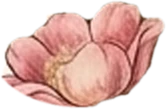
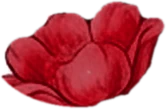
Versi 1: palet putih, hitam, emas dengan bunga merah
Claude-Session: https://claude.ai/code/session_01MxgjQbkmSSvvZDtBi8Ronz

diff --git a/index.html b/index.html
@@ -3,7 +3,7 @@
 <head>
 <meta charset="utf-8">
 <meta name="viewport" content="width=device-width, initial-scale=1, viewport-fit=cover">
-<meta name="theme-color" content="#FBF6EE">
+<meta name="theme-color" content="#ffffff">
 <title>The Wedding of Rian &amp; Syherli</title>
 <meta name="description" content="Undangan pernikahan Rian &amp; Syherli — Sabtu, 12 Desember 2026">
 <meta property="og:title" content="The Wedding of Rian &amp; Syherli">
@@ -18,9 +18,9 @@
    Ilustrasi: assets/base.webp (WebGL: pohon & bunga tertiup angin lewat wind.png + flowermap.png).
    Data undangan: objek WEDDING di <script> paling bawah. */
 :root{
-  --crimson:#8B1E1E; --crimson-dark:#6E1414; --crimson-light:#A62E2E;
-  --parchment:#FBF6EE; --card:#FFFBF5; --gold:#C59B27; --gold-dark:#9E7815; --gold-soft:rgba(197,155,39,.38);
-  --ink:#2c1f1a; --ink-2:#4a3d36; --ink-3:#7a6c62;
+  --crimson:#141414; --crimson-dark:#000; --crimson-light:#2e2e2e; --red:#b3151f;
+  --parchment:#ffffff; --card:#ffffff; --gold:#C59B27; --gold-dark:#9E7815; --gold-soft:rgba(197,155,39,.42);
+  --ink:#141414; --ink-2:#3a3a3a; --ink-3:#7c7c7c;
   --script:'Pinyon Script',cursive; --cinzel:'Cinzel',serif; --serif:'Cormorant Garamond',Georgia,serif;
   --col:414px; --ps:.74; --gap:74px;
 }
@@ -32,7 +32,7 @@ button,a,label{-webkit-tap-highlight-color:transparent;touch-action:manipulation
 img,svg{display:block}
 ::selection{background:var(--crimson);color:#fff}
 main{width:100%;max-width:var(--col);background:var(--parchment);min-height:100vh;position:relative;box-shadow:0 25px 50px -12px rgba(0,0,0,.5);overflow-x:hidden;padding-bottom:calc(64px + env(safe-area-inset-bottom))}
-.halo{text-shadow:0 0 14px #fbf6ee,0 0 6px #fbf6ee,0 1px 2px rgba(255,255,255,.9)}
+.halo{text-shadow:0 0 14px #fff,0 0 6px #fff,0 1px 2px rgba(255,255,255,.9)}
 
 /* ============ PEMUAT ============ */
 #loader{position:fixed;inset:0;z-index:100;background:var(--parchment);display:grid;place-items:center;transition:opacity .9s ease,visibility .9s}
@@ -63,33 +63,33 @@ main{width:100%;max-width:var(--col);background:var(--parchment);min-height:100v
 @keyframes swayL{from{transform:rotate(-.9deg)}to{transform:rotate(1.5deg)}}
 @keyframes swayR{from{transform:rotate(.9deg)}to{transform:rotate(-1.5deg)}}
 @keyframes swayF{from{transform:rotate(-.8deg) translateX(-.6%)}to{transform:rotate(.8deg) translateX(.6%)}}
-.sheen{position:absolute;inset:0;z-index:1;pointer-events:none;background:linear-gradient(180deg,rgba(251,246,238,.5),rgba(251,246,238,.08) 42%,rgba(251,246,238,0) 70%,rgba(251,246,238,.35))}
-.bloom{position:absolute;inset:0;z-index:1;pointer-events:none;opacity:0;background:radial-gradient(60% 34% at 50% 60%,rgba(255,244,214,.95),rgba(255,240,205,.5) 55%,rgba(255,240,205,0));transition:opacity 2.4s ease}
+.sheen{position:absolute;inset:0;z-index:1;pointer-events:none;background:linear-gradient(180deg,rgba(255,255,255,.5),rgba(255,255,255,.08) 42%,rgba(255,255,255,0) 70%,rgba(255,255,255,.35))}
+.bloom{position:absolute;inset:0;z-index:1;pointer-events:none;opacity:0;background:radial-gradient(60% 34% at 50% 60%,rgba(255,255,255,.96),rgba(255,250,235,.55) 55%,rgba(255,250,235,0));transition:opacity 2.4s ease}
 .life{position:absolute;inset:0;pointer-events:none;overflow:hidden;z-index:2}
 .life .bird,.life .bfy{position:absolute;left:0;top:0;will-change:transform}
 .life .bird svg{width:100%;height:auto;overflow:visible}
 .life .bfy img{width:100%;animation:flapS var(--flap,.75s) ease-in-out infinite alternate;filter:drop-shadow(0 2px 2px rgba(60,40,20,.15))}
 @keyframes flapS{0%,15%{transform:scaleX(1)}100%{transform:scaleX(.28)}}
 .hero-top{position:relative;z-index:10;padding:calc(clamp(22px,5vh,58px) + env(safe-area-inset-top)) 24px 0;text-align:center;display:flex;flex-direction:column;align-items:center;transition:opacity 1.6s ease,transform 2.2s cubic-bezier(.4,0,.2,1)}
-.hero-top::before{content:"";position:absolute;inset:-10px -10px -30px;z-index:-1;background:radial-gradient(closest-side,rgba(252,247,236,.9),rgba(252,247,236,.55) 62%,rgba(252,247,236,0))}
+.hero-top::before{content:"";position:absolute;inset:-10px -10px -30px;z-index:-1;background:radial-gradient(closest-side,rgba(255,255,255,.9),rgba(255,255,255,.55) 62%,rgba(255,255,255,0))}
 .badge{display:inline-flex;align-items:center;gap:8px;padding:4px 14px;border-radius:999px;background:rgba(255,255,255,.72);border:1px solid var(--gold-soft);margin-bottom:12px}
-.badge i{width:5px;height:5px;transform:rotate(45deg);background:var(--crimson)}
+.badge i{width:5px;height:5px;transform:rotate(45deg);background:var(--red)}
 .badge span{font-family:var(--cinzel);font-size:9.5px;letter-spacing:.26em;text-transform:uppercase;color:var(--ink-2);font-weight:600}
 .wed-of{font-family:var(--cinzel);font-size:12px;letter-spacing:.34em;text-transform:uppercase;color:var(--crimson);font-weight:500}
 .names{margin:6px 0 2px}
-.names h1{font-family:var(--script);font-weight:400;font-size:clamp(46px,7.6vh,64px);line-height:1.04;color:var(--crimson);text-shadow:0 2px 12px rgba(139,30,30,.14)}
+.names h1{font-family:var(--script);font-weight:400;font-size:clamp(46px,7.6vh,64px);line-height:1.04;color:var(--crimson);text-shadow:0 2px 12px rgba(0,0,0,.14)}
 .amp-row{display:flex;align-items:center;justify-content:center;gap:12px;margin:0}
 .amp-row b{height:1px;width:38px;background:linear-gradient(90deg,transparent,var(--gold))}.amp-row b:last-child{transform:scaleX(-1)}
 .amp-row span{font-family:var(--script);font-size:26px;color:var(--gold-dark)}
 .fullnames{font-style:italic;color:var(--ink-2);font-size:15px;margin-top:4px}
-.date-pill{margin-top:10px;padding:5px 18px;border-radius:999px;background:rgba(255,251,240,.82);border:1px solid rgba(197,155,39,.5);font-family:var(--cinzel);font-size:11px;letter-spacing:.14em;text-transform:uppercase;font-weight:600;color:var(--ink)}
+.date-pill{margin-top:10px;padding:5px 18px;border-radius:999px;background:rgba(255,255,255,.86);border:1px solid rgba(197,155,39,.5);font-family:var(--cinzel);font-size:11px;letter-spacing:.14em;text-transform:uppercase;font-weight:600;color:var(--ink)}
 .spacer{flex-grow:1;min-height:20px}
 .hero-bottom{position:relative;z-index:10;padding:0 24px calc(clamp(18px,3.4vh,34px) + env(safe-area-inset-bottom));display:flex;flex-direction:column;align-items:center;gap:12px;transition:opacity 1s ease,transform 1s ease}
 .guest{text-align:center;font-size:14px;font-style:italic;color:var(--ink-2);line-height:1.3;margin-top:12px}
 .guest[hidden]{display:none}
 .guest b{display:block;font-style:normal;font-size:21px;font-weight:700;color:var(--crimson);letter-spacing:.01em}
-.btn-open{width:100%;max-width:300px;background:linear-gradient(100deg,var(--crimson-dark),var(--crimson-light) 50%,var(--crimson-dark));background-size:200% 100%;color:#fef3c7;font-family:var(--cinzel);font-size:12px;font-weight:600;text-transform:uppercase;letter-spacing:.24em;
-  padding:13px 22px;border-radius:999px;box-shadow:0 16px 28px -12px rgba(110,20,20,.7),inset 0 1px 0 rgba(255,255,255,.18);display:flex;align-items:center;justify-content:center;gap:12px;border:1px solid rgba(240,215,140,.5);cursor:pointer;animation:sheenBtn 5s ease-in-out infinite}
+.btn-open{width:100%;max-width:300px;background:linear-gradient(100deg,var(--crimson-dark),var(--crimson-light) 50%,var(--crimson-dark));background-size:200% 100%;color:#f3e2b0;font-family:var(--cinzel);font-size:12px;font-weight:600;text-transform:uppercase;letter-spacing:.24em;
+  padding:13px 22px;border-radius:999px;box-shadow:0 16px 28px -12px rgba(0,0,0,.7),inset 0 1px 0 rgba(255,255,255,.18);display:flex;align-items:center;justify-content:center;gap:12px;border:1px solid rgba(240,215,140,.5);cursor:pointer;animation:sheenBtn 5s ease-in-out infinite}
 @keyframes sheenBtn{0%,100%{background-position:0 0}50%{background-position:100% 0}}
 .btn-open:active{transform:scale(.96)}
 .btn-open .seal{width:28px;height:28px;border-radius:50%;display:grid;place-items:center;color:#fff;background:radial-gradient(circle at 35% 35%,#F0D78C,#C59B27 60%,#8A640F);box-shadow:inset 0 1px 1px rgba(255,255,255,.6)}
@@ -106,9 +106,9 @@ main{width:100%;max-width:var(--col);background:var(--parchment);min-height:100v
 /* ============ LATAR HALAMAN ISI ============ */
 .page-art{position:fixed;top:0;bottom:0;left:50%;width:min(100%,var(--col));transform:translateX(-50%);z-index:0;pointer-events:none;overflow:hidden;opacity:0;transition:opacity 1.6s ease}
 .page-art.on{opacity:1}
-.page-art img{position:absolute;left:50%;top:50%;height:100%;min-width:100%;aspect-ratio:768/1376;translate:-50% -50%;filter:saturate(.75) sepia(.1);animation:artDrift 44s ease-in-out infinite alternate}
+.page-art img{position:absolute;left:50%;top:50%;height:100%;min-width:100%;aspect-ratio:768/1376;translate:-50% -50%;animation:artDrift 44s ease-in-out infinite alternate}
 .page-art::after{content:"";position:absolute;inset:0;background:
-  linear-gradient(180deg,rgba(251,246,238,.82),rgba(251,246,238,.66) 26%,rgba(251,246,238,.66) 60%,rgba(251,246,238,.86) 80%,rgba(251,246,238,.94))}
+  linear-gradient(180deg,rgba(255,255,255,.82),rgba(255,255,255,.66) 26%,rgba(255,255,255,.66) 60%,rgba(255,255,255,.86) 80%,rgba(255,255,255,.94))}
 @keyframes artDrift{from{scale:1}to{scale:1.06}}
 
 /* ============ BAGIAN & KARTU ============ */
@@ -118,8 +118,8 @@ section{position:relative;z-index:10;padding:44px 20px 10px;overflow:hidden}
 .sec-head h2{font-family:var(--script);font-weight:400;font-size:42px;line-height:1.15;color:var(--crimson);margin-top:2px}
 .orn{display:flex;align-items:center;justify-content:center;gap:10px;margin-top:6px}
 .orn b{height:1px;width:46px;background:linear-gradient(90deg,transparent,var(--gold))}.orn b:last-child{transform:scaleX(-1)}
-.orn i{width:6px;height:6px;transform:rotate(45deg);background:var(--crimson)}.orn i.s{width:4px;height:4px;background:var(--gold)}
-.card{position:relative;z-index:2;background:var(--card);border-radius:22px;padding:26px 22px;border:1px solid var(--gold-soft);box-shadow:0 14px 34px -22px rgba(74,40,20,.55),0 2px 6px -3px rgba(74,40,20,.12)}
+.orn i{width:6px;height:6px;transform:rotate(45deg);background:var(--red)}.orn i.s{width:4px;height:4px;background:var(--gold)}
+.card{position:relative;z-index:2;background:var(--card);border-radius:22px;padding:26px 22px;border:1px solid var(--gold-soft);box-shadow:0 14px 34px -22px rgba(0,0,0,.55),0 2px 6px -3px rgba(0,0,0,.12)}
 .card::before{content:"";position:absolute;inset:6px;border-radius:17px;border:1px solid rgba(197,155,39,.2);pointer-events:none}
 .deco{position:relative;margin-top:var(--gap)}
 .deco.tight{margin-top:26px}
@@ -130,7 +130,7 @@ section{position:relative;z-index:10;padding:44px 20px 10px;overflow:hidden}
 .stalk .sw{position:absolute;inset:0;transform-origin:50% 100%;animation:sway var(--sd,7s) cubic-bezier(.45,.05,.55,.95) infinite;animation-delay:var(--sdl,0s)}
 .stalk svg{position:absolute;inset:0;width:100%;height:100%;overflow:visible}
 .stalk .head{position:absolute;left:0;width:100%;transform-origin:50% 80%;animation:nod var(--sd,7s) cubic-bezier(.45,.05,.55,.95) infinite;animation-delay:calc(var(--sdl,0s) + .9s)}
-.stalk .head img{width:100%;opacity:0;scale:.3;transition:scale 1.4s cubic-bezier(.34,1.4,.64,1) calc(var(--in,0s) + .8s),opacity .9s ease calc(var(--in,0s) + .75s);filter:drop-shadow(0 3px 4px rgba(90,40,20,.2))}
+.stalk .head img{width:100%;opacity:0;scale:.3;transition:scale 1.4s cubic-bezier(.34,1.4,.64,1) calc(var(--in,0s) + .8s),opacity .9s ease calc(var(--in,0s) + .75s);filter:drop-shadow(0 3px 4px rgba(0,0,0,.2))}
 .deco.in .stalk{scale:1 1;opacity:1}
 .deco.in .stalk .head img{opacity:1;scale:1}
 @keyframes sway{0%,100%{transform:rotate(-2.6deg)}50%{transform:rotate(3deg)}}
@@ -139,13 +139,13 @@ section{position:relative;z-index:10;padding:44px 20px 10px;overflow:hidden}
 .bism{font-size:25px;font-weight:700;color:var(--crimson);text-align:center}
 .salam{font-family:var(--cinzel);font-size:10.5px;letter-spacing:.2em;text-transform:uppercase;color:var(--ink-3);margin-top:6px;text-align:center;line-height:1.6}
 .body-t{color:var(--ink-2);font-size:16.5px;line-height:1.65;text-align:center;margin-top:14px}
-.ayat{margin-top:20px;padding:18px 16px;border-radius:16px;background:#fbf3e2;border:1px solid rgba(197,155,39,.3);text-align:center}
+.ayat{margin-top:20px;padding:18px 16px;border-radius:16px;background:#f6f5f2;border:1px solid rgba(197,155,39,.3);text-align:center}
 .ayat svg{width:22px;height:22px;margin:0 auto 8px;color:var(--gold)}
 .ayat p{font-style:italic;color:var(--ink-2);font-size:15px;line-height:1.65}
 .ayat .src{font-family:var(--cinzel);font-style:normal;font-size:10px;letter-spacing:.16em;color:var(--crimson);font-weight:700;margin-top:10px}
 .person{display:flex;flex-direction:column;align-items:center;text-align:center}
-.mono{width:132px;height:132px;border-radius:50%;border:1.5px solid var(--gold);padding:5px;margin-bottom:12px;background:#fffaf0;box-shadow:0 8px 18px -10px rgba(74,40,20,.5)}
-.mono span{width:100%;height:100%;border-radius:50%;background:radial-gradient(circle at 35% 30%,var(--crimson-light),var(--crimson-dark));display:grid;place-items:center;color:#fef3c7;font-family:var(--script);font-size:44px;line-height:1}
+.mono{width:132px;height:132px;border-radius:50%;border:1.5px solid var(--gold);padding:5px;margin-bottom:12px;background:#fff;box-shadow:0 8px 18px -10px rgba(0,0,0,.5)}
+.mono span{width:100%;height:100%;border-radius:50%;background:radial-gradient(circle at 35% 30%,var(--crimson-light),var(--crimson-dark));display:grid;place-items:center;color:#f3e2b0;font-family:var(--script);font-size:44px;line-height:1}
 .mono img{width:100%;height:100%;border-radius:50%;object-fit:cover;object-position:50% 30%}
 .frame{position:relative;z-index:2;margin:26px auto 0;width:86%;padding:8px;background:var(--card);border:1px solid var(--gold-soft);border-radius:999px 999px 18px 18px;box-shadow:0 18px 40px -22px rgba(40,20,10,.7)}
 .frame img{width:100%;aspect-ratio:5/7;object-fit:cover;border-radius:999px 999px 12px 12px}
@@ -157,9 +157,9 @@ section{position:relative;z-index:10;padding:44px 20px 10px;overflow:hidden}
 .person .ortu{font-size:15px;color:var(--ink-2);line-height:1.5;margin-top:4px}
 .person .ortu b{color:var(--ink);font-weight:700;font-size:16px}
 .person .suku{font-size:13px;color:var(--ink-3);font-style:italic;margin-top:4px}
-.ig{display:inline-flex;align-items:center;gap:6px;margin-top:12px;font-size:13px;color:var(--crimson);font-weight:600;background:#fbf3e2;padding:4px 12px;border-radius:999px;border:1px solid var(--gold-soft);text-decoration:none}
+.ig{display:inline-flex;align-items:center;gap:6px;margin-top:12px;font-size:13px;color:var(--crimson);font-weight:600;background:#f6f5f2;padding:4px 12px;border-radius:999px;border:1px solid var(--gold-soft);text-decoration:none}
 .ig svg{width:14px;height:14px}
-.amp-div{text-align:center;font-family:var(--script);font-size:40px;color:var(--crimson);line-height:1;margin:20px 0 -62px;position:relative;z-index:3}
+.amp-div{text-align:center;font-family:var(--script);font-size:40px;color:var(--gold-dark);line-height:1;margin:20px 0 -62px;position:relative;z-index:3}
 .ev{text-align:center}
 .ev .tag{display:inline-block;padding:3px 16px;border-radius:999px;background:linear-gradient(90deg,var(--gold-dark),var(--gold));color:#fff;font-family:var(--cinzel);font-size:10.5px;font-weight:700;letter-spacing:.16em;text-transform:uppercase;position:absolute;top:-12px;left:50%;transform:translateX(-50%);white-space:nowrap;box-shadow:0 4px 10px -4px rgba(120,80,10,.6)}
 .ev .day{font-family:var(--cinzel);font-size:11px;letter-spacing:.3em;text-transform:uppercase;color:var(--gold-dark);font-weight:700;margin-top:6px}
@@ -170,37 +170,37 @@ section{position:relative;z-index:10;padding:44px 20px 10px;overflow:hidden}
 .ev .loc{display:flex;align-items:flex-start;justify-content:center;gap:8px;color:var(--ink-2);font-size:15px;margin-bottom:16px;line-height:1.35}
 .ev .loc svg{width:16px;height:16px;flex:none;color:var(--crimson);margin-top:2px}
 .ev .loc small{display:block;color:var(--ink-3);font-size:13.5px;font-style:italic}
-.b2{display:inline-flex;align-items:center;justify-content:center;gap:8px;width:100%;padding:11px 14px;border-radius:12px;background:#fbf3e2;border:1px solid rgba(197,155,39,.55);font-family:var(--cinzel);font-size:11px;color:var(--ink);font-weight:700;letter-spacing:.08em;text-decoration:none;cursor:pointer;text-transform:uppercase}
+.b2{display:inline-flex;align-items:center;justify-content:center;gap:8px;width:100%;padding:11px 14px;border-radius:12px;background:#f6f5f2;border:1px solid rgba(197,155,39,.55);font-family:var(--cinzel);font-size:11px;color:var(--ink);font-weight:700;letter-spacing:.08em;text-decoration:none;cursor:pointer;text-transform:uppercase}
 .b2 svg{width:14px;height:14px}
-.b2.crim{background:linear-gradient(180deg,var(--crimson-light),var(--crimson-dark));color:#fef3c7;border-color:rgba(240,215,140,.4);box-shadow:0 8px 16px -10px rgba(110,20,20,.8)}
+.b2.crim{background:linear-gradient(180deg,var(--crimson-light),var(--crimson-dark));color:#f3e2b0;border-color:rgba(240,215,140,.4);box-shadow:0 8px 16px -10px rgba(0,0,0,.8)}
 .grid2{display:grid;grid-template-columns:1fr 1fr;gap:8px}
 .count-title{font-family:var(--cinzel);font-size:10.5px;letter-spacing:.3em;text-transform:uppercase;color:var(--gold-dark);font-weight:700;text-align:center;margin-bottom:12px}
 .count{display:grid;grid-template-columns:repeat(4,1fr);gap:8px}
-.cbox{background:#fbf3e2;border:1px solid rgba(197,155,39,.45);border-radius:14px;padding:10px 0 8px;text-align:center}
+.cbox{background:#f6f5f2;border:1px solid rgba(197,155,39,.45);border-radius:14px;padding:10px 0 8px;text-align:center}
 .cbox b{display:block;font-size:30px;font-weight:700;color:var(--crimson);line-height:1.05;font-variant-numeric:tabular-nums}
 .cbox span{font-family:var(--cinzel);font-size:8.5px;letter-spacing:.16em;color:var(--gold-dark);text-transform:uppercase;font-weight:700}
 .story{position:relative;text-align:left}
-.story::before{content:"";position:absolute;left:8px;top:8px;bottom:8px;width:1px;background:linear-gradient(var(--gold),var(--crimson))}
+.story::before{content:"";position:absolute;left:8px;top:8px;bottom:8px;width:1px;background:linear-gradient(var(--gold),#bbb)}
 .st{position:relative;padding:0 0 18px 30px}.st:last-child{padding-bottom:0}
-.st::before{content:"";position:absolute;left:4px;top:7px;width:9px;height:9px;transform:rotate(45deg);background:var(--crimson);box-shadow:0 0 0 3px var(--card)}
+.st::before{content:"";position:absolute;left:4px;top:7px;width:9px;height:9px;transform:rotate(45deg);background:var(--red);box-shadow:0 0 0 3px var(--card)}
 .st .yr{font-family:var(--cinzel);font-size:10.5px;letter-spacing:.18em;color:var(--gold-dark);font-weight:700}
 .st h4{font-weight:700;font-size:20px;color:var(--crimson);line-height:1.25}
 .st p{font-size:15.5px;color:var(--ink-2);line-height:1.55}
 .form .field{margin-bottom:13px;text-align:left}
 .form label.l{display:block;font-family:var(--cinzel);font-size:10px;letter-spacing:.16em;text-transform:uppercase;font-weight:700;color:var(--ink-2);margin-bottom:6px}
-.form input,.form select,.form textarea{width:100%;font-family:var(--serif);font-size:17px;color:var(--ink);background:#fffdf9;border:1px solid rgba(197,155,39,.45);border-radius:10px;padding:10px 12px;outline:none}
-.form input:focus,.form select:focus,.form textarea:focus{border-color:var(--crimson);box-shadow:0 0 0 3px rgba(139,30,30,.08)}
+.form input,.form select,.form textarea{width:100%;font-family:var(--serif);font-size:17px;color:var(--ink);background:#fff;border:1px solid rgba(197,155,39,.45);border-radius:10px;padding:10px 12px;outline:none}
+.form input:focus,.form select:focus,.form textarea:focus{border-color:var(--crimson);box-shadow:0 0 0 3px rgba(0,0,0,.08)}
 .form textarea{min-height:88px;resize:vertical}
 .chips{display:flex;gap:6px}
 .chips label{flex:1;cursor:pointer}
 .chips input{position:absolute;opacity:0;pointer-events:none}
-.chips span{display:block;text-align:center;font-size:14.5px;font-weight:600;padding:8px 2px;border-radius:10px;border:1px solid rgba(197,155,39,.5);background:#fffdf9;transition:all .3s}
-.chips input:checked+span{background:var(--crimson);color:#fef3c7;border-color:var(--crimson)}
+.chips span{display:block;text-align:center;font-size:14.5px;font-weight:600;padding:8px 2px;border-radius:10px;border:1px solid rgba(197,155,39,.5);background:#fff;transition:all .3s}
+.chips input:checked+span{background:var(--crimson);color:#f3e2b0;border-color:var(--crimson)}
 .hint{font-style:italic;font-size:13.5px;color:var(--ink-3);text-align:center;margin-top:10px}
 .wishes{display:flex;flex-direction:column;gap:8px;margin-top:12px}
-.wish{background:#fbf3e2;border:1px solid rgba(197,155,39,.3);border-radius:14px;padding:10px 14px;font-size:15px;text-align:left}
+.wish{background:#f6f5f2;border:1px solid rgba(197,155,39,.3);border-radius:14px;padding:10px 14px;font-size:15px;text-align:left}
 .wish b{color:var(--crimson)}.wish em{font-family:var(--cinzel);font-size:9px;font-style:normal;margin-left:6px;color:var(--gold-dark);font-weight:700}
-.quote{text-align:center;background:#f6eddc}
+.quote{text-align:center;background:#f6f5f2}
 .quote p{font-style:italic;color:var(--ink);font-size:16.5px;line-height:1.65}
 .quote small{display:block;font-family:var(--cinzel);font-size:9.5px;color:var(--ink-3);letter-spacing:.16em;margin-top:10px;text-transform:uppercase;font-weight:700}
 .closing{padding:54px 26px 30px;text-align:center;color:var(--ink-2);position:relative;z-index:10}
@@ -213,16 +213,16 @@ section{position:relative;z-index:10;padding:44px 20px 10px;overflow:hidden}
 .closing-art .stage{top:auto;bottom:0;height:auto;width:100%;min-width:0}
 
 /* ============ KONTROL ============ */
-.scrim{position:fixed;left:50%;bottom:0;width:min(100%,var(--col));height:128px;transform:translateX(-50%);z-index:38;pointer-events:none;opacity:0;transition:opacity .8s;background:linear-gradient(180deg,rgba(251,246,238,0),rgba(251,246,238,.9) 58%,rgba(251,246,238,.97))}
+.scrim{position:fixed;left:50%;bottom:0;width:min(100%,var(--col));height:128px;transform:translateX(-50%);z-index:38;pointer-events:none;opacity:0;transition:opacity .8s;background:linear-gradient(180deg,rgba(255,255,255,0),rgba(255,255,255,.9) 58%,rgba(255,255,255,.97))}
 .story .scrim{opacity:1}.story.at-cover .scrim{opacity:0}
 .guide{position:fixed;left:50%;bottom:calc(14px + env(safe-area-inset-bottom));z-index:41;transform:translate(-50%,160%);opacity:0;pointer-events:none;transition:transform .9s cubic-bezier(.2,.8,.2,1),opacity .7s}
 .guide.show{transform:translate(-50%,0);opacity:1;pointer-events:auto}
-.guide button{display:flex;align-items:center;gap:12px;padding:5px 5px 5px 20px;border-radius:999px;background:rgba(255,253,248,.96);border:1px solid rgba(197,155,39,.55);box-shadow:0 12px 26px -12px rgba(74,40,20,.55);cursor:pointer;text-align:left}
+.guide button{display:flex;align-items:center;gap:12px;padding:5px 5px 5px 20px;border-radius:999px;background:rgba(255,255,255,.96);border:1px solid rgba(197,155,39,.55);box-shadow:0 12px 26px -12px rgba(0,0,0,.55);cursor:pointer;text-align:left}
 .guide small{display:block;font-family:var(--cinzel);font-size:8.5px;letter-spacing:.2em;text-transform:uppercase;color:var(--ink-3);font-weight:700;white-space:nowrap}
 .guide b{display:block;font-family:var(--script);font-weight:400;font-size:21px;line-height:1.05;color:var(--crimson);white-space:nowrap}
 .guide b.swap{animation:capSwap .7s cubic-bezier(.2,.8,.2,1)}
 @keyframes capSwap{from{opacity:0;transform:translateY(8px)}}
-.gbtn{position:relative;width:42px;height:42px;border-radius:50%;display:grid;place-items:center;color:#fef3c7;background:linear-gradient(135deg,var(--crimson-light),var(--crimson-dark));flex:none}
+.gbtn{position:relative;width:42px;height:42px;border-radius:50%;display:grid;place-items:center;color:#f3e2b0;background:linear-gradient(135deg,var(--crimson-light),var(--crimson-dark));flex:none}
 .gbtn .ring{position:absolute;inset:-4px;width:50px;height:50px;transform:rotate(-90deg)}
 .gbtn .ring circle{fill:none;stroke-width:1.6}.gbtn .track{stroke:rgba(197,155,39,.25)}
 .gbtn .prog{stroke:var(--gold);stroke-linecap:round;stroke-dasharray:144.5;stroke-dashoffset:144.5;transition:stroke-dashoffset .6s}
@@ -231,24 +231,24 @@ section{position:relative;z-index:10;padding:44px 20px 10px;overflow:hidden}
 .float{position:fixed;right:max(12px,calc(50vw - var(--col)/2 + 12px));bottom:calc(16px + env(safe-area-inset-bottom));z-index:42;display:flex;flex-direction:column;align-items:flex-end;gap:8px;opacity:0;transform:translateY(10px);pointer-events:none;transition:opacity .6s,transform .6s,bottom .6s}
 .show-float .float{opacity:1;transform:none;pointer-events:auto}
 .show-bar .float{bottom:calc(72px + env(safe-area-inset-bottom))}
-.fab{width:42px;height:42px;border-radius:50%;border:1px solid rgba(197,155,39,.55);background:rgba(255,253,248,.96);color:var(--crimson);display:grid;place-items:center;cursor:pointer;box-shadow:0 10px 22px -12px rgba(74,40,20,.6)}
+.fab{width:42px;height:42px;border-radius:50%;border:1px solid rgba(197,155,39,.55);background:rgba(255,255,255,.96);color:var(--crimson);display:grid;place-items:center;cursor:pointer;box-shadow:0 10px 22px -12px rgba(0,0,0,.6)}
 .fab svg{width:19px;height:19px}
 .story .fab.petals{display:none}
-.player{display:flex;align-items:center;border-radius:999px;background:rgba(255,253,248,.96);border:1px solid rgba(197,155,39,.55);box-shadow:0 10px 22px -12px rgba(74,40,20,.6);padding:3px}
-.player button{width:36px;height:36px;border-radius:50%;background:linear-gradient(135deg,var(--crimson-light),var(--crimson-dark));color:#fef3c7;display:grid;place-items:center;border:0;cursor:pointer;flex:none}
+.player{display:flex;align-items:center;border-radius:999px;background:rgba(255,255,255,.96);border:1px solid rgba(197,155,39,.55);box-shadow:0 10px 22px -12px rgba(0,0,0,.6);padding:3px}
+.player button{width:36px;height:36px;border-radius:50%;background:linear-gradient(135deg,var(--crimson-light),var(--crimson-dark));color:#f3e2b0;display:grid;place-items:center;border:0;cursor:pointer;flex:none}
 .player button svg{width:17px;height:17px}
 .player.on button svg{animation:spin 9s linear infinite}
 .player .meta{max-width:0;overflow:hidden;white-space:nowrap;transition:max-width .7s cubic-bezier(.4,0,.2,1),padding .7s}
 .player.expanded .meta{max-width:170px;padding:0 14px 0 9px}
 .player .tt{font-family:var(--cinzel);font-size:10px;font-weight:700;color:var(--crimson);letter-spacing:.06em}
 .player .st2{font-size:12px;color:var(--ink-3);font-style:italic;line-height:1.1}
-.bar{position:fixed;bottom:0;left:50%;transform:translate(-50%,110%);width:100%;max-width:var(--col);background:rgba(255,253,248,.97);border-top:1px solid rgba(197,155,39,.4);padding:9px 16px calc(9px + env(safe-area-inset-bottom));z-index:50;display:flex;align-items:center;justify-content:space-around;box-shadow:0 -10px 30px rgba(74,40,20,.12);transition:transform .8s cubic-bezier(.2,.8,.2,1)}
+.bar{position:fixed;bottom:0;left:50%;transform:translate(-50%,110%);width:100%;max-width:var(--col);background:rgba(255,255,255,.97);border-top:1px solid rgba(197,155,39,.4);padding:9px 16px calc(9px + env(safe-area-inset-bottom));z-index:50;display:flex;align-items:center;justify-content:space-around;box-shadow:0 -10px 30px rgba(0,0,0,.12);transition:transform .8s cubic-bezier(.2,.8,.2,1)}
 .show-bar .bar{transform:translate(-50%,0)}
 .bar button{display:flex;flex-direction:column;align-items:center;gap:3px;background:none;border:0;cursor:pointer;color:var(--ink-2)}
 .bar button svg{width:20px;height:20px;color:var(--crimson)}
 .bar span{font-family:var(--cinzel);font-size:9.5px;font-weight:700;text-transform:uppercase;letter-spacing:.1em}
 .bar i{height:26px;width:1px;background:var(--gold-soft)}
-.modal{position:fixed;inset:0;z-index:60;background:rgba(30,18,12,.6);backdrop-filter:blur(4px);-webkit-backdrop-filter:blur(4px);display:flex;align-items:center;justify-content:center;padding:16px;opacity:0;pointer-events:none;transition:opacity .4s}
+.modal{position:fixed;inset:0;z-index:60;background:rgba(0,0,0,.62);backdrop-filter:blur(4px);-webkit-backdrop-filter:blur(4px);display:flex;align-items:center;justify-content:center;padding:16px;opacity:0;pointer-events:none;transition:opacity .4s}
 .modal.open{opacity:1;pointer-events:auto}
 .modal .box{background:var(--parchment);border-radius:24px;width:100%;max-width:380px;max-height:88vh;overflow:auto;padding:26px 22px;border:1.5px solid var(--gold);position:relative;text-align:center;transform:translateY(20px) scale(.97);transition:transform .5s cubic-bezier(.2,.8,.2,1)}
 .modal.open .box{transform:none}
@@ -270,7 +270,7 @@ section{position:relative;z-index:10;padding:44px 20px 10px;overflow:hidden}
 @keyframes fallL{0%{transform:translateY(-25px) rotate(0) scale(.9);opacity:0}18%{opacity:.8}45%{transform:translateY(42vh) translateX(-28px) rotate(-100deg)}75%{transform:translateY(78vh) translateX(18px) rotate(-190deg) scale(.95)}100%{transform:translateY(105vh) translateX(-8px) rotate(-280deg) scale(.88);opacity:0}}
 .tap-petal{position:fixed;pointer-events:none;z-index:70;width:16px;height:16px;animation:burst 1.6s cubic-bezier(.16,1,.3,1) forwards}
 @keyframes burst{0%{transform:translate(-50%,-50%) scale(.4);opacity:1}100%{transform:translate(calc(-50% + var(--tx)),calc(-50% + var(--ty))) scale(1.1) rotate(var(--r));opacity:0}}
-.toast{position:fixed;left:50%;top:calc(20px + env(safe-area-inset-top));transform:translate(-50%,-30px);opacity:0;z-index:80;background:var(--crimson);color:#fef3c7;font-family:var(--cinzel);font-size:11px;letter-spacing:.06em;padding:9px 18px;border-radius:999px;transition:all .4s;pointer-events:none;border:1px solid rgba(240,215,140,.4);white-space:nowrap}
+.toast{position:fixed;left:50%;top:calc(20px + env(safe-area-inset-top));transform:translate(-50%,-30px);opacity:0;z-index:80;background:var(--crimson);color:#f3e2b0;font-family:var(--cinzel);font-size:11px;letter-spacing:.06em;padding:9px 18px;border-radius:999px;transition:all .4s;pointer-events:none;border:1px solid rgba(240,215,140,.4);white-space:nowrap}
 .toast.show{opacity:1;transform:translate(-50%,0)}
 /* masuk & keluar */
 .rv{opacity:0;transform:translate3d(0,26px,0);transition:opacity .6s ease,transform .7s cubic-bezier(.4,0,1,1)}
@@ -286,11 +286,11 @@ section{position:relative;z-index:10;padding:44px 20px 10px;overflow:hidden}
 <div id="loader"><div class="in"><div class="ring">R &amp; S</div><p>Memuat undangan</p></div></div>
 <!-- bentuk daun botani (dipakai ulang oleh semua ranting) -->
 <svg width="0" height="0" style="position:absolute" aria-hidden="true"><defs>
-  <linearGradient id="lg1" x1="0" y1="0" x2="1" y2="1"><stop offset="0" stop-color="#b3bd97"/><stop offset="1" stop-color="#6c7a56"/></linearGradient>
-  <linearGradient id="lg2" x1="0" y1="0" x2="1" y2="1"><stop offset="0" stop-color="#c2bd94"/><stop offset="1" stop-color="#7d7a52"/></linearGradient>
-  <g id="lf1"><path d="M0 0C6-7.5 17-7.5 25 0 17 6.5 6 6.5 0 0Z" fill="url(#lg1)" stroke="#4d5a3c" stroke-width=".55"/><path d="M0 0C6-7.5 17-7.5 25 0 17-1.3 8-1.1 0 0Z" fill="#fff" opacity=".14"/><path d="M.5 0C8-.6 16-.6 24 0M6-.3l3.2-3.6M11-.4l3.4-4M16-.4l3-3.2M6.5.3l3.2 3.2M11.5.3l3.4 3.4M16.5.2l2.8 2.6" fill="none" stroke="#44502f" stroke-width=".4" opacity=".75"/></g>
-  <g id="lf2"><path d="M0 0C6-7.5 17-7.5 25 0 17 6.5 6 6.5 0 0Z" fill="url(#lg2)" stroke="#5a5637" stroke-width=".55"/><path d="M0 0C6 6.5 17 6.5 25 0 17 1.2 8 1 0 0Z" fill="#3c3a22" opacity=".12"/><path d="M.5 0C8-.6 16-.6 24 0M6-.3l3.2-3.6M11-.4l3.4-4M16-.4l3-3.2M6.5.3l3.2 3.2M11.5.3l3.4 3.4M16.5.2l2.8 2.6" fill="none" stroke="#4e4a2c" stroke-width=".4" opacity=".75"/></g>
-  <radialGradient id="budg" cx="42%" cy="32%"><stop offset="0" stop-color="#f3c3cc"/><stop offset=".6" stop-color="#cf6f84"/><stop offset="1" stop-color="#9a3d53"/></radialGradient>
+  <linearGradient id="lg1" x1="0" y1="0" x2="1" y2="1"><stop offset="0" stop-color="#cfcfcf"/><stop offset="1" stop-color="#6e6e6e"/></linearGradient>
+  <linearGradient id="lg2" x1="0" y1="0" x2="1" y2="1"><stop offset="0" stop-color="#e2d6ad"/><stop offset="1" stop-color="#9c8544"/></linearGradient>
+  <g id="lf1"><path d="M0 0C6-7.5 17-7.5 25 0 17 6.5 6 6.5 0 0Z" fill="url(#lg1)" stroke="#2b2b2b" stroke-width=".55"/><path d="M0 0C6-7.5 17-7.5 25 0 17-1.3 8-1.1 0 0Z" fill="#fff" opacity=".14"/><path d="M.5 0C8-.6 16-.6 24 0M6-.3l3.2-3.6M11-.4l3.4-4M16-.4l3-3.2M6.5.3l3.2 3.2M11.5.3l3.4 3.4M16.5.2l2.8 2.6" fill="none" stroke="#2b2b2b" stroke-width=".4" opacity=".75"/></g>
+  <g id="lf2"><path d="M0 0C6-7.5 17-7.5 25 0 17 6.5 6 6.5 0 0Z" fill="url(#lg2)" stroke="#5e4d1c" stroke-width=".55"/><path d="M0 0C6 6.5 17 6.5 25 0 17 1.2 8 1 0 0Z" fill="#3a2f10" opacity=".12"/><path d="M.5 0C8-.6 16-.6 24 0M6-.3l3.2-3.6M11-.4l3.4-4M16-.4l3-3.2M6.5.3l3.2 3.2M11.5.3l3.4 3.4M16.5.2l2.8 2.6" fill="none" stroke="#5e4d1c" stroke-width=".4" opacity=".75"/></g>
+  <radialGradient id="budg" cx="42%" cy="32%"><stop offset="0" stop-color="#e8525c"/><stop offset=".6" stop-color="#b3151f"/><stop offset="1" stop-color="#6e0a12"/></radialGradient>
 </defs></svg>
 
 <main id="main">
@@ -593,14 +593,14 @@ $('#rsvpForm').addEventListener('submit', e=>{ e.preventDefault();
   // ranting berdaun: daun berselang-seling, mengecil ke pucuk
   const sprig = (w,L,seed) => { const cx=w/2, b=(seed%2?1:-1)*4, n=Math.round(L/13), v=seed%3===0?2:1; let lv='';
     for (let i=2;i<=n;i++){ const t=i/(n+.6), y=L-t*(L-6), s=1.3*(1-t*.42); lv += leaf(cx+b*Math.sin(t*3), y, i%2 ? -142+t*34 : -38-t*34, s, v); }
-    return `<path d="${curve(cx,L,6,b)}" fill="none" stroke="#5d5038" stroke-width="2.2" stroke-linecap="round"/><path d="${curve(cx,L,6,b)}" fill="none" stroke="#8a7a56" stroke-width="1" stroke-linecap="round"/>${lv}${leaf(cx,8,-100,.85,v)}${leaf(cx,8,-78,.75,v)}`; };
-  const bud = `<svg viewBox="0 0 20 30" style="width:100%;overflow:visible"><path d="M10 2C17 8 17 19 10 25 3 19 3 8 10 2Z" fill="url(#budg)" stroke="#8e3d52" stroke-width=".6"/><path d="M10 4C12 11 12 18 10 24" stroke="#fff" stroke-width=".6" opacity=".45" fill="none"/><path d="M10 25C6 23 3 20 2 16 5 18 7 19 10 21 13 19 15 18 18 16 17 20 14 23 10 25Z" fill="#7f8c64" stroke="#4d5a3c" stroke-width=".5"/></svg>`;
+    return `<path d="${curve(cx,L,6,b)}" fill="none" stroke="#2b2b2b" stroke-width="2.2" stroke-linecap="round"/><path d="${curve(cx,L,6,b)}" fill="none" stroke="#8a8a8a" stroke-width="1" stroke-linecap="round"/>${lv}${leaf(cx,8,-100,.85,v)}${leaf(cx,8,-78,.75,v)}`; };
+  const bud = `<svg viewBox="0 0 20 30" style="width:100%;overflow:visible"><path d="M10 2C17 8 17 19 10 25 3 19 3 8 10 2Z" fill="url(#budg)" stroke="#5e0a10" stroke-width=".6"/><path d="M10 4C12 11 12 18 10 24" stroke="#fff" stroke-width=".6" opacity=".45" fill="none"/><path d="M10 25C6 23 3 20 2 16 5 18 7 19 10 21 13 19 15 18 18 16 17 20 14 23 10 25Z" fill="#6e6e6e" stroke="#2b2b2b" stroke-width=".5"/></svg>`;
   const stalk = ([id,w,L,a],j,k) => {
     const sd=(6.6+j*1.1+(k%3)*.6).toFixed(2), sdl=(-(k*1.3+j*2.1)).toFixed(2), inn=(j*.16).toFixed(2), cx=w/2;
     let svg, head='';
     if (id==='sprig') svg = sprig(w,L,j+k);
     else { const isBud = id==='bud', b=(j%2?1:-1)*(3+k%3), top = isBud ? w : w*.4, st = curve(cx,L,top,b);
-      svg = `<path d="${st}" fill="none" stroke="#4d5a3c" stroke-width="2.8" stroke-linecap="round"/><path d="${st}" fill="none" stroke="#8a9a6c" stroke-width="1.5" stroke-linecap="round"/>` + leaf(cx, L*.56, a<0?-150:-30, isBud?.6:.9) + (!isBud && L>100 ? leaf(cx, L*.34, a<0?-30:-150, .72) : '');
+      svg = `<path d="${st}" fill="none" stroke="#2b2b2b" stroke-width="2.8" stroke-linecap="round"/><path d="${st}" fill="none" stroke="#9a9a9a" stroke-width="1.5" stroke-linecap="round"/>` + leaf(cx, L*.56, a<0?-150:-30, isBud?.6:.9) + (!isBud && L>100 ? leaf(cx, L*.34, a<0?-30:-150, .72) : '');
       if (isBud) head = `<span class="head" style="top:${-w*.2}px">${bud}</span>`;
       else { const [fw,fh,an] = F[id], h = w*fh/fw; head = `<span class="head" style="top:${(top - h*an).toFixed(1)}px"><img src="${P}${id}.webp" alt="" width="${fw}" height="${fh}" style="height:auto"></span>`; } }
     return `<i class="stalk" style="left:${BX-w/2}px;width:${w}px;height:${L}px;rotate:${a}deg;--in:${inn}s;--sd:${sd}s;--sdl:${sdl}s"><span class="sw"><svg viewBox="0 0 ${w} ${L}">${svg}</svg>${head}</span></i>`;
@@ -616,7 +616,7 @@ $('#rsvpForm').addEventListener('submit', e=>{ e.preventDefault();
 })();
 
 /* ===================== PARTIKEL ===================== */
-const PCOL = ['#8B1E1E','#A62E2E','#D95368','#B84A62','#C59B27','#E892A2'], parts = $('#particles');
+const PCOL = ['#b3151f','#8f0f18','#d92b36','#b3151f','#C59B27','#c41e2a'], parts = $('#particles');
 const PET = c => `<svg viewBox="0 0 24 24" fill="${c}" style="width:100%;height:100%"><path d="M12 2C9.5 5 5 9.5 5 14c0 3.870 3.130 7 7 7s7-3.130 7-7c0-4.500-4.500-9-7-12z"/></svg>`;
 function petal(burst){
   if (reduce) return; const p=document.createElement('div'), dur=burst?9+Math.random()*5:12+Math.random()*5, del=Math.random()*2, sz=10+Math.random()*10;

diff --git a/tools/recolor.py b/tools/recolor.py
@@ -1,0 +1,43 @@
+"""Warnai ulang aset versi 1 ke palet putih · hitam · emas · bunga merah.
+Kertas → putih, pohon/rumah/daun → tinta abu-hitam, pita songket → emas, kelopak → merah, inti bunga → emas."""
+import sys, glob, numpy as np, cv2
+from PIL import Image
+A = sys.argv[1]
+PAPER = np.array([250,244,228],np.float32)
+def recolor(rgb, white_balance, band_rows=0, flowers=True, band_terracotta_only=False):
+    f = rgb.astype(np.float32)
+    if white_balance: f = np.clip(f * (255/PAPER), 0, 255)
+    u8 = f.astype(np.uint8); hsv = cv2.cvtColor(u8, cv2.COLOR_RGB2HSV).astype(np.float32); h,s,v = hsv[...,0],hsv[...,1],hsv[...,2]
+    grey = cv2.cvtColor(u8, cv2.COLOR_RGB2GRAY).astype(np.float32)
+    ink = np.clip((grey-128)*1.22+128 - 6, 0, 255)                       # tinta abu-hitam, sedikit lebih kontras
+    out = np.dstack([ink,ink,ink])
+    if flowers:
+        petal = (((h<=13)|(h>=150)) & (s>38) & (v>60)).astype(np.float32)      # merah / pink / jingga-merah
+        if band_rows: petal[:band_rows+6] = 0                          # pita songket bukan bunga
+        petal = cv2.GaussianBlur(petal,(0,0),1.0)
+        gold  = cv2.GaussianBlur(((h>13)&(h<32)&(s>95)&(v>140)).astype(np.float32),(0,0),.8)   # inti kuning
+        ps = np.clip(s*1.7+70,0,255); pv = np.clip(v*.92 - (255-s)*.16,0,255)
+        red = cv2.cvtColor(np.dstack([np.full_like(h,177),ps,pv]).astype(np.uint8), cv2.COLOR_HSV2RGB).astype(np.float32)
+        gd  = cv2.cvtColor(np.dstack([np.full_like(h,21),np.clip(s*.9,0,255),v]).astype(np.uint8), cv2.COLOR_HSV2RGB).astype(np.float32)
+        out = out*(1-petal[...,None]) + red*petal[...,None]
+        out = out*(1-gold[...,None]) + gd*gold[...,None]
+    if band_rows:                                                        # pita songket → emas
+        g = grey[:band_rows]/255.; lo = np.array([120,88,28],np.float32); hi = np.array([247,232,190],np.float32)
+        gb = lo + (hi-lo)*np.clip((g-.25)/.6,0,1)[...,None]
+        m = np.clip((235-grey[:band_rows])/30,0,1)[...,None] * np.clip((band_rows-np.arange(band_rows))/14,0,1)[:,None,None]
+        if band_terracotta_only:   # lapisan pohon: hanya bagian pita (terakota) yang jadi emas, daun tetap abu
+            t = cv2.GaussianBlur((((h<=16)|(h>=160)) & (s>70)).astype(np.float32),(0,0),1.2)[:band_rows]; m = m*t[...,None]
+        out[:band_rows] = out[:band_rows]*(1-m) + gb*m
+    return out.clip(0,255).astype(np.uint8)
+def do(path, white_balance=False, band=0, flowers=True, q=86, tonly=False):
+    im = Image.open(path); has_a = im.mode in ('RGBA','LA','P') and 'A' in im.convert('RGBA').getbands()
+    rgba = np.array(im.convert('RGBA')); rgb = recolor(rgba[...,:3], white_balance, int(band*rgba.shape[0]), flowers, tonly)
+    if has_a and rgba[...,3].min() < 255: Image.fromarray(np.dstack([rgb,rgba[...,3]]),'RGBA').save(path, quality=q, method=6)
+    else: Image.fromarray(rgb).save(path, quality=q, method=6)
+do(f'{A}/base.webp', True, band=.108)
+do(f'{A}/house.webp', True, band=.108, flowers=False)
+do(f'{A}/treeL.webp', band=.19, tonly=True); do(f'{A}/treeR.webp', band=.152, tonly=True)
+do(f'{A}/flowers.webp', q=88)
+for p in glob.glob(f'{A}/flowers/*.webp'): do(p, q=90)
+for p in glob.glob(f'{A}/bf*.webp'): do(p, flowers=False)
+print('ok')

diff --git a/README.md b/README.md
@@ -1,7 +1,8 @@
 # Undangan Pernikahan Digital — Rian & Syherli
 
 Undangan pernikahan berbasis website (`index.html` + `assets/`), dirancang untuk HP; di layar lebar tampil sebagai kolom HP.
-Gaya "Pusaka Marawa": perkamen, merah marawa, emas songket, ilustrasi vintage rumah gadang.
+Palet: putih, hitam, emas, dengan bunga merah. Ornamen Minangkabau: rumah gadang & pepohonan bergaya ukiran tinta, pita songket emas.
+`tools/recolor.py assets` mewarnai ulang semua aset ilustrasi ke palet ini (jalankan setelah `scene.py`/`flowers.py`).
 Font: Cinzel, Cormorant Garamond, Pinyon Script.
 
 ## Alur
